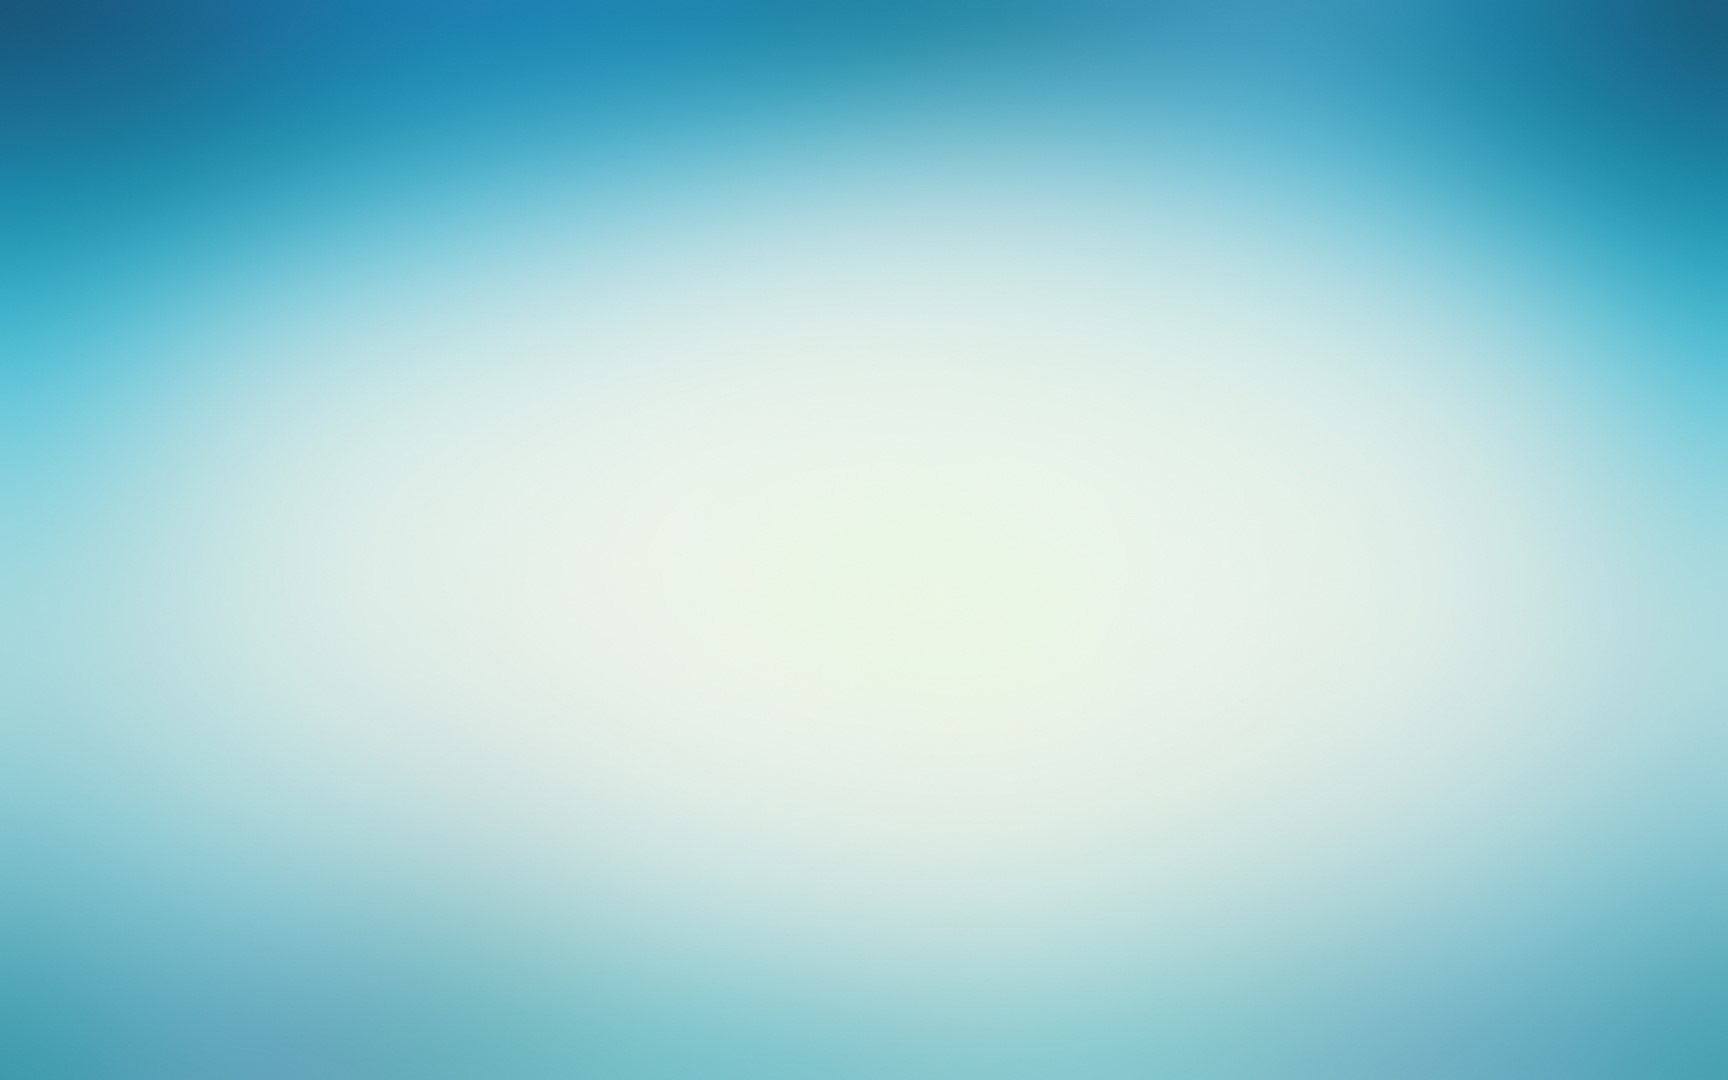
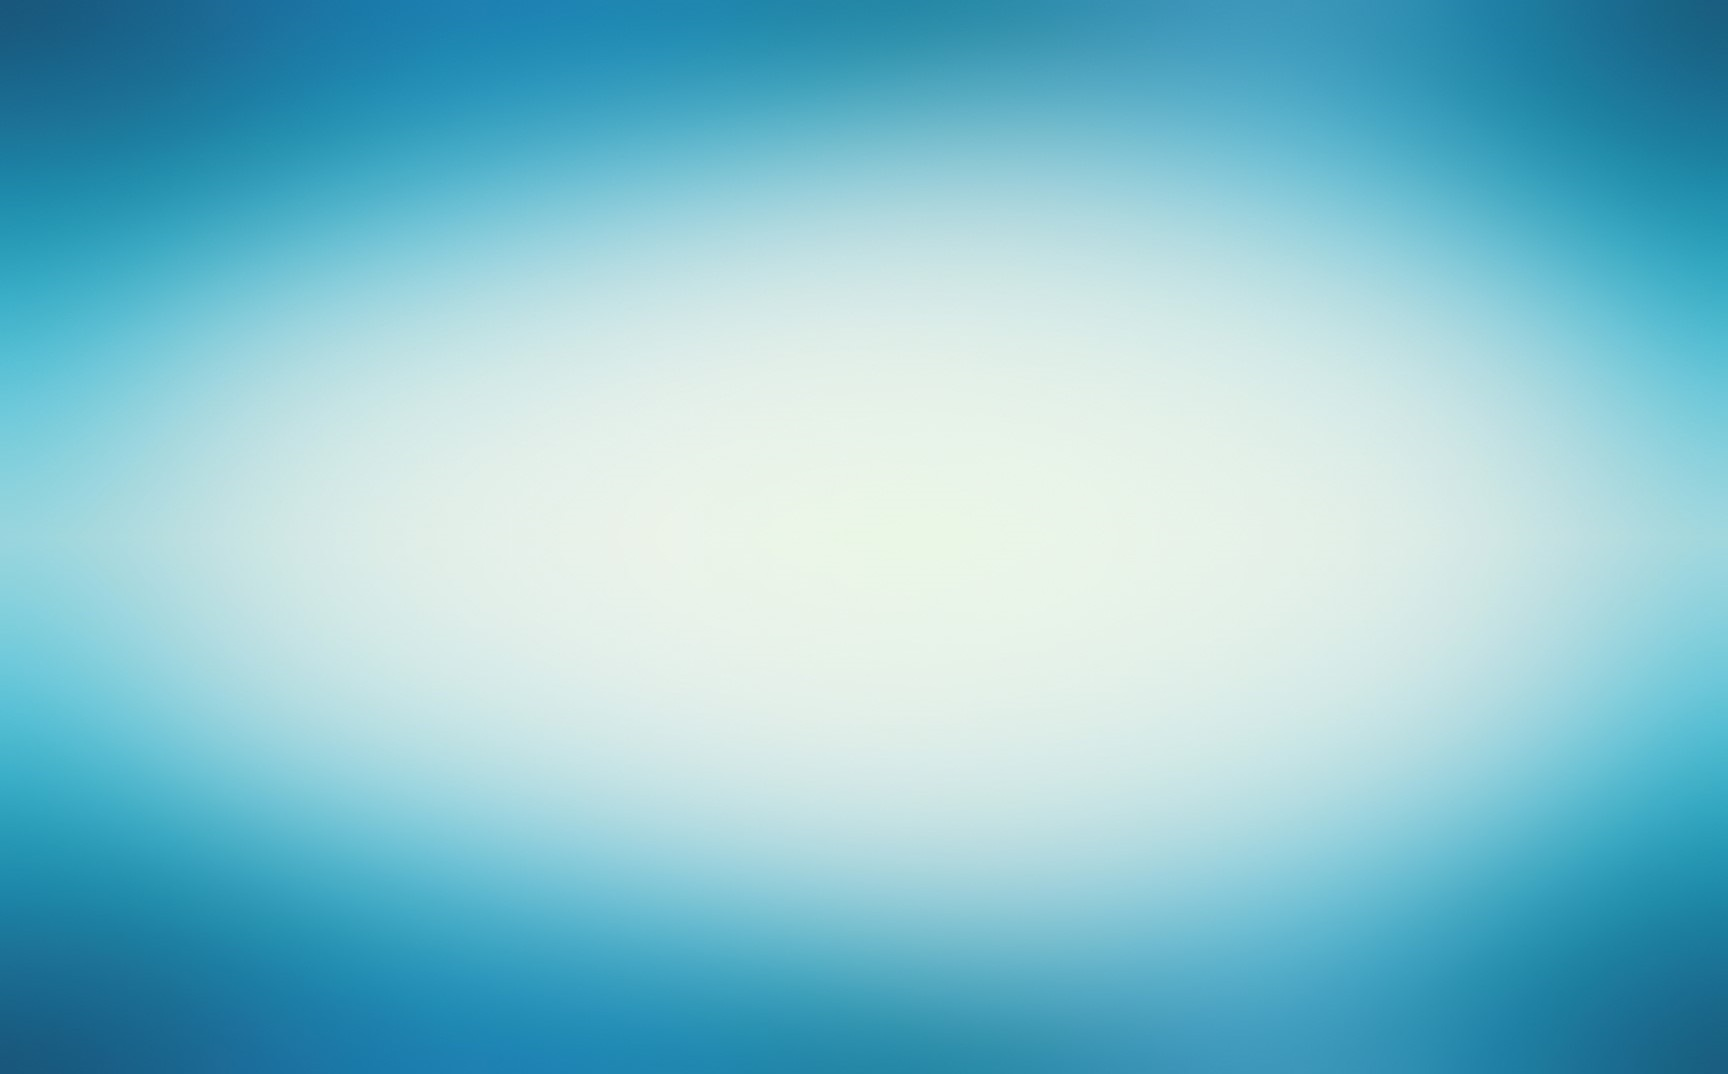
Changed Background
Edited background and commented averageWeather code

diff --git a/mainWeather.js b/mainWeather.js
@@ -1,4 +1,4 @@
-///console.log("Hello");
+
 var mainWeather = {
       init : function(){
           $("#submitWeather").click(function () {
@@ -29,7 +29,6 @@ var mainWeather = {
  
       
        createWeatherWidg: function (data) {
-console.log("hi");
         return "<div class='pressure'> <p>Temperature: " + (data.main.temp - 273.15).toFixed(2) + " C</p></div>"+
                 "<div class='description'> <p>Title: " + data.weather[0].main + "</p></div>" +
                 "<div class='description'> <p>Description: " + data.weather[0].description + "</p></div>" +
@@ -39,8 +38,107 @@ console.log("hi");
         "alert('hi');"
     }
 }
+
+/*
+var temp;
+console.log(temp);
+var mainWeather1 = {
+      init : function(){
+          $("#submitWeather1").click(function () {
+                    getWeather1();
+                    getWeather2();
+                    getWeather3();
+                    getWeather4();
+                    temp = temp / 4;
+                    createWeatherWidg(temp);                    
+            }
+        );
+      },
+ 
+    getWeather1: function () {
+        $.ajax({
+
+
+            url: 'http://api.openweathermap.org/data/2.5/weather?q=' + $("#cityInput1").val() + "," + "india".val()+"&APPID=4cfa02c53d8bc59bd10527b2aab9226e",
+
+            type: 'GET',
+            dataType: 'jsonp',
+            success: function (data) {
+                temp = temp + data.main.temp - 273.15;
+            },
+            error: function () {
+                alert('Failed!');
+            }
+ 
+        });
+    },
+
+    getWeather2: function () {
+        $.ajax({
+
+
+            url: 'http://api.openweathermap.org/data/2.5/weather?q=' + $("#cityInput2").val() + "," + "india".val()+"&APPID=4cfa02c53d8bc59bd10527b2aab9226e",
+
+            type: 'GET',
+            dataType: 'jsonp',
+            success: function (data) {
+                temp = temp + data.main.temp - 273.15;
+            },
+            error: function () {
+                alert('Failed!');
+            }
+ 
+        });
+    },
+
+    getWeather3 function () {
+        $.ajax({
+
+
+            url: 'http://api.openweathermap.org/data/2.5/weather?q=' + $("#cityInput3").val() + "," + "india".val()+"&APPID=4cfa02c53d8bc59bd10527b2aab9226e",
+
+            type: 'GET',
+            dataType: 'jsonp',
+            success: function (data) {
+                temp = temp + data.main.temp - 273.15;
+            },
+            error: function () {
+                alert('Failed!');
+            }
+ 
+        });
+    },
+
+    getWeather4: function () {
+        $.ajax({
+
+
+            url: 'http://api.openweathermap.org/data/2.5/weather?q=' + $("#cityInput4").val() + "," + "india".val()+"&APPID=4cfa02c53d8bc59bd10527b2aab9226e",
+
+            type: 'GET',
+            dataType: 'jsonp',
+            success: function (data) {
+                temp = temp + data.main.temp - 273.15;
+            },
+            error: function () {
+                alert('Failed!');
+            }
+ 
+        });
+    },
+ 
+      
+       createWeatherWidg: function (temp) {
+        return "<div class='pressure'> <p>Temperature: " + (temp - 273.15).toFixed(2) + " C</p></div>";
+    }
+}
+*/
 //mainWeather.init();
 $("#submitWeather").click(function () {
-    console.log("hi");  
                     mainWeather.getWeather();
             });
+/*
+$("#submitWeather1").click(function () {
+    console.log("hi2");  
+                    mainWeather1.getWeather1();
+            });*/

diff --git a/h4ckwiser.html b/h4ckwiser.html
@@ -92,7 +92,7 @@
   };
   // Take the JSON results and proccess them
   var proccessResults = function() {
-    console.log(this);
+ 
     var results = JSON.parse(this.responseText);
     if (results.list.length > 0) {
         resetData();
@@ -157,24 +157,6 @@
   };
   google.maps.event.addDomListener(window, 'load', initialize);
 </script>
-
-
-
-
-
-
-
-
-
-
-
-
-
-
-
-
-
-
 </head>
 <body  onload="myFunction()" style="margin:0;">
 <div id="loader"></div>
